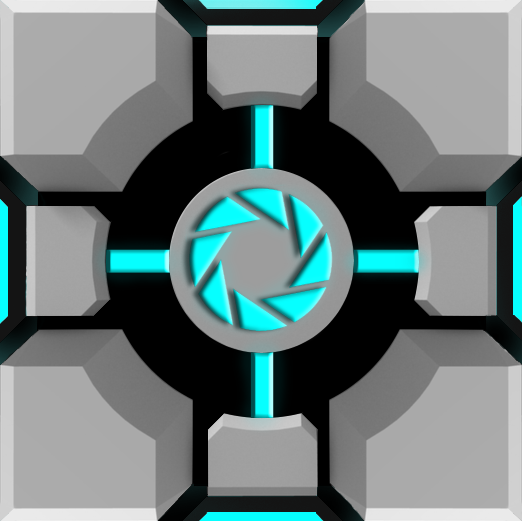
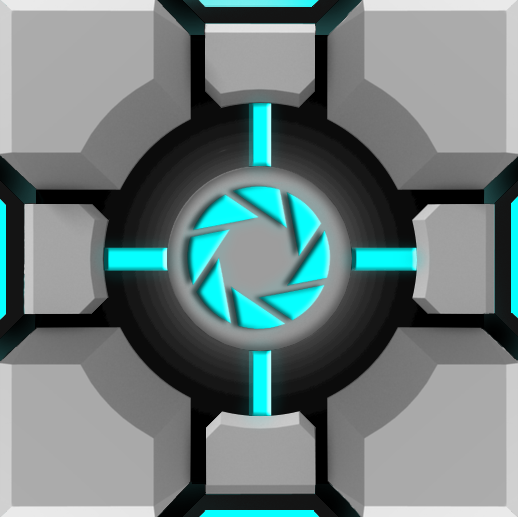
рproba

diff --git a/cube/templates/cube/index.html b/cube/templates/cube/index.html
@@ -4,43 +4,69 @@
 <head>
 	<title>Кубик</title>
 	<meta http-equiv="content-type" content="text/html; charset=utf-8" />
+    <link rel="stylesheet" type="text/css" href="{% static 'css/onepage-scroll.css' %}" />
     <link rel="stylesheet" type="text/css" href="{% static 'css/mediaQuery.css' %}" media="screen, projection" />
 	<link rel="stylesheet" type="text/css" href="{% static 'css/cube.css' %}" media="screen, projection" />
     <link rel="stylesheet" type="text/css" href="{% static 'css/cubeLandscape.css' %}" media="screen and (orientation: landscape), projection" />
     <link rel="stylesheet" type="text/css" href="{% static 'css/cubePortrait.css' %}" media="screen and (orientation: portrait), projection" />
+    <link rel="stylesheet" type="text/css" href="{% static 'css/menu.css' %}"  />
+    <link rel="stylesheet" type="text/css" href="{% static 'css/polygo.css' %}"  />
+
 </head>
 
 <body>
+<div id='wrap'>
+    <section>
+        <div id='first'>
+           <p>Сайт под ключ</p>
+        </div>
 
-    <div class="container">
+    </section>
+    <section>
+        <div class="hex hex-3">
+            <div class="inner">
+                <h4>CONTACT US</h4>
+                <hr />
+                <p>We Open Everyday</p>
+            </div>
+            <a href="#"></a>
+            <div class="corner-1"></div>
+            <div class="corner-2"></div>
+        </div>
+        <div class="hex" >
+            <a href="#"></a>
+            <div class="corner-1"></div>
+            <div class="corner-2"></div>
+        </div>
+    
+    </section>
+    <section>
 
-        <div class="cube">
-            <section class='n1'>
-             
-            </section>
-            <section class='n2'>
-       
-            </section>
-            <section class='n3'>
-          
-            </section>
-            <section class='n4'>
-         
-            </section>
-            <section class='n5'>
-           
-            </section>
-            <section class='n6'>
-           
-            </section>
+        <div class="container">
+
+            <div class="cube">
+                <div class='n n1'>
+                </div>
+                <div class='n n2'>
+                </div>
+                <div class='n n3'>
+                </div>
+                <div class='n n4'>
+                </div>
+                <div class='n n5'>
+                </div>
+                <div class='n n6'> 
+                </div>
+            </div>         
         
-        </div>         
-        
-    </div>
-
-<!-- Yandex.Metrika counter --><script type="text/javascript">(function (d, w, c) { (w[c] = w[c] || []).push(function() { try { w.yaCounter16792801 = new Ya.Metrika({id:16792801, enableAll: true}); } catch(e) { } }); var n = d.getElementsByTagName("script")[0], s = d.createElement("script"), f = function () { n.parentNode.insertBefore(s, n); }; s.type = "text/javascript"; s.async = true; s.src = (d.location.protocol == "https:" ? "https:" : "http:") + "//mc.yandex.ru/metrika/watch.js"; if (w.opera == "[object Opera]") { d.addEventListener("DOMContentLoaded", f); } else { f(); } })(document, window, "yandex_metrika_callbacks");</script><noscript><div><img src="//mc.yandex.ru/watch/16792801" style="position:absolute; left:-9999px;" alt="" /></div></noscript><!-- /Yandex.Metrika counter -->    
-<div id = 'foot'></div>
+        </div>
+        <div id = 'foot'></div>
+    </section>
+</div>
 </body>
     <script src="{% static 'js/jquery_1_9_2.js' %}"></script>
     <script src="{% static 'js/cube.js' %}"></script>
+    <script src="{% static 'js/jquery.onepage-scroll.js' %}"></script>
+    <script src="{% static 'js/scroll.js' %}"></script>
+
 </html>

diff --git a/cube/static/css/cubeLandscape.css b/cube/static/css/cubeLandscape.css
@@ -65,11 +65,11 @@
         .cube .n6                              {
 
 
-                                    -webkit-transform: translate3d(0,0,-27.4vh) rotate3d(1,0,0,180deg);                                    
-                                    -moz-transform: translate3d(0,0,-27.4vh) rotate3d(1,0,0,0deg);                                    
-                                    -o-transform: translate3d(0,0,-27.4vh) rotate3d(1,0,0,180deg);
-                                    -ms-transform: translate3d(0,0,-27.4vh) rotate3d(1,0,0,180deg);                                    
-                                    transform: translate3d(0,0,-27.4vh) rotate3d(1,0,0,180deg);                                    
+                                    -webkit-transform: translate3d(0,0,-22.5vh) rotate3d(1,0,0,180deg);                                    
+                                    -moz-transform: translate3d(0,0,-22.5vh) rotate3d(1,0,0,0deg);                                    
+                                    -o-transform: translate3d(0,0,-22.5vh) rotate3d(1,0,0,180deg);
+                                    -ms-transform: translate3d(0,0,-22.5vh) rotate3d(1,0,0,180deg);                                    
+                                    transform: translate3d(0,0,-22.5vh) rotate3d(1,0,0,180deg);                                    
                                 } 
                                 
                                 

diff --git a/cube/static/css/cubePortrait.css b/cube/static/css/cubePortrait.css
@@ -64,11 +64,11 @@
         .cube .n6                              {
 
 
-                                    -webkit-transform: translate3d(0,0,-27.4vw) rotate3d(1,0,0,180deg);                                    
-                                    -moz-transform: translate3d(0,0,-27.4vw) rotate3d(1,0,0,0deg);                                    
-                                    -o-transform: translate3d(0,0,-27.4vw) rotate3d(1,0,0,180deg);
-                                    -ms-transform: translate3d(0,0,-27.4vw) rotate3d(1,0,0,180deg);                                    
-                                    transform: translate3d(0,0,-27.4vw) rotate3d(1,0,0,180deg);                                    
+                                    -webkit-transform: translate3d(0,0,-22.5vw) rotate3d(1,0,0,180deg);                                    
+                                    -moz-transform: translate3d(0,0,-22.5vw) rotate3d(1,0,0,0deg);                                    
+                                    -o-transform: translate3d(0,0,-22.5vw) rotate3d(1,0,0,180deg);
+                                    -ms-transform: translate3d(0,0,-22.5vw) rotate3d(1,0,0,180deg);                                    
+                                    transform: translate3d(0,0,-22.5vw) rotate3d(1,0,0,180deg);                                    
                                 } 
                                 
                                 

diff --git a/cube/static/js/cube.js b/cube/static/js/cube.js
@@ -89,11 +89,19 @@ window.onblur = function(){
 function animationCube(angle,mFrames){
     
       sT=setTimeout(function tick(){
-      rotX+=angle;
-      rotY=rotX*0.3;
-      //rotZ=-rotX*0.3;
-     // cube.css("transform","perspective(100vh) rotateX("+rotX+"deg) rotateY("+rotY+"deg) rotateZ("+0+"deg)");
-     cube.css("transform","perspective(100vh) rotate3d("+2+","+1+","+0+","+rotX+"deg)");
+      rotX+=angle*1.1;
+      rotY+=angle;
+      rotZ+=angle;
+      textCss="perspective(100vh) rotateX("+rotX+"deg) rotateY("+rotY+"deg) rotateZ("+rotZ+"deg)";
+     cube.css({
+         'transform': textCss,
+         '-ms-transform': textCss,
+         '-o-transform': textCss,
+         '-moz-transform': textCss,
+         '-webkit-transform': textCss
+         
+     });
+    // cube.css("transform","perspective(100vh) rotate3d("+2+","+1+","+0+","+rotX+"deg)");
       
       indexInt++;
       if(indexInt>mFrames)
@@ -118,10 +126,10 @@ function animationCube(angle,mFrames){
 
 
 function animation(stat,angle,mFrames,duration,interval){
-    angle = angle || 0.9;
-    mFrames = mFrames || 100;
+    angle = angle || 0.45;
+    mFrames = mFrames || 200;
     duration = duration || 1000;
-    interval = interval || 3000;
+    interval = interval || 2000;
 
    if(stat)
    {   

diff --git a/cube/static/css/cube.css b/cube/static/css/cube.css
@@ -5,7 +5,7 @@
     position:absolute;
     bottom:0;
     left:0;
-    z-index:1;
+    z-index:-1;
     background:#E0E0E0 url("../img/b.jpg"); 
     background-repeat:no-repeat;
     background-position: center bottom; 
@@ -15,6 +15,8 @@
 .container           {
                     position: relative;
                     margin: 0;
+                    top:0;
+                    left:0;
                     width: 100vw;
                     height: 100vh;
                     display:flex;
@@ -29,8 +31,8 @@
 
 
 
-                    width: 55%;    /* 100/1.73 диагональ куба*/
-                    height: 55%;
+                    width: 50%;    /* 100/1.73 диагональ куба*/
+                    height: 50%;
                     
 
                     
@@ -50,11 +52,11 @@
                     
 }
 
-section{
+.n{
                     position: absolute;
                     display: block;
-                    width:100%;
-                    height:100%;
+                    width:100.1%;
+                    height:100.1%;
                     box-shadow: inset 0 0 15px rgba(255,255,255,0.3), inset -30px -30px 80px rgba(0,0,0,0.3);
                     background: url('../img/backCube.png');
                     background-size: contain;
